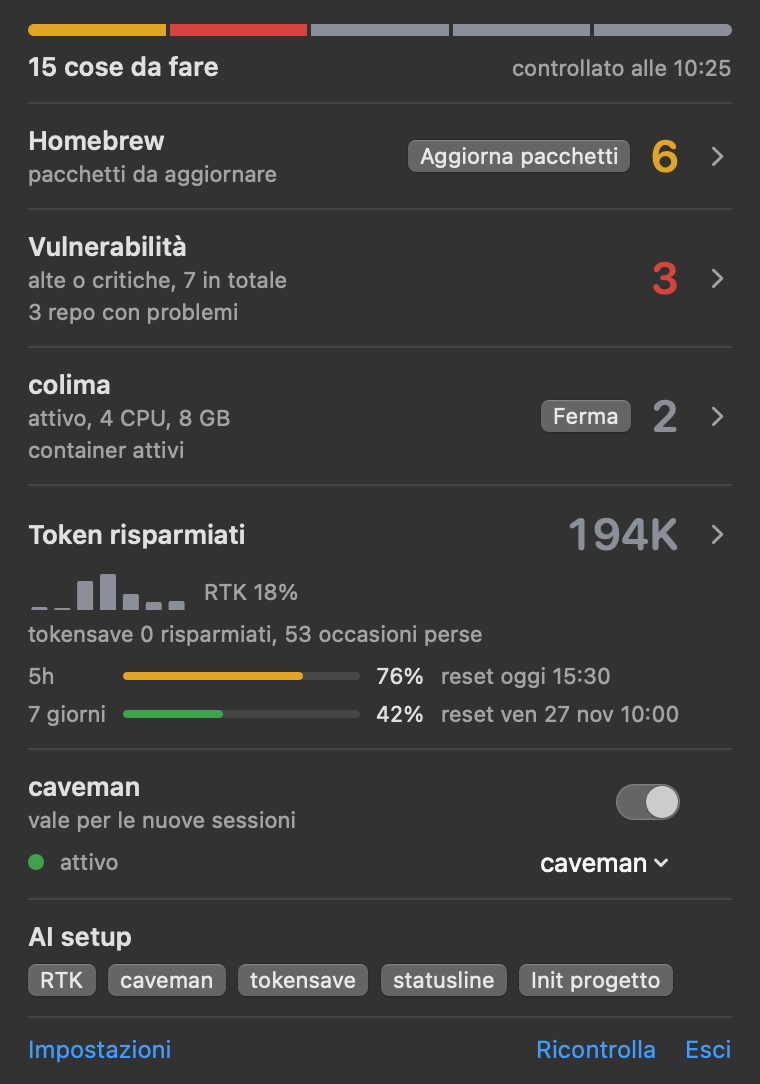
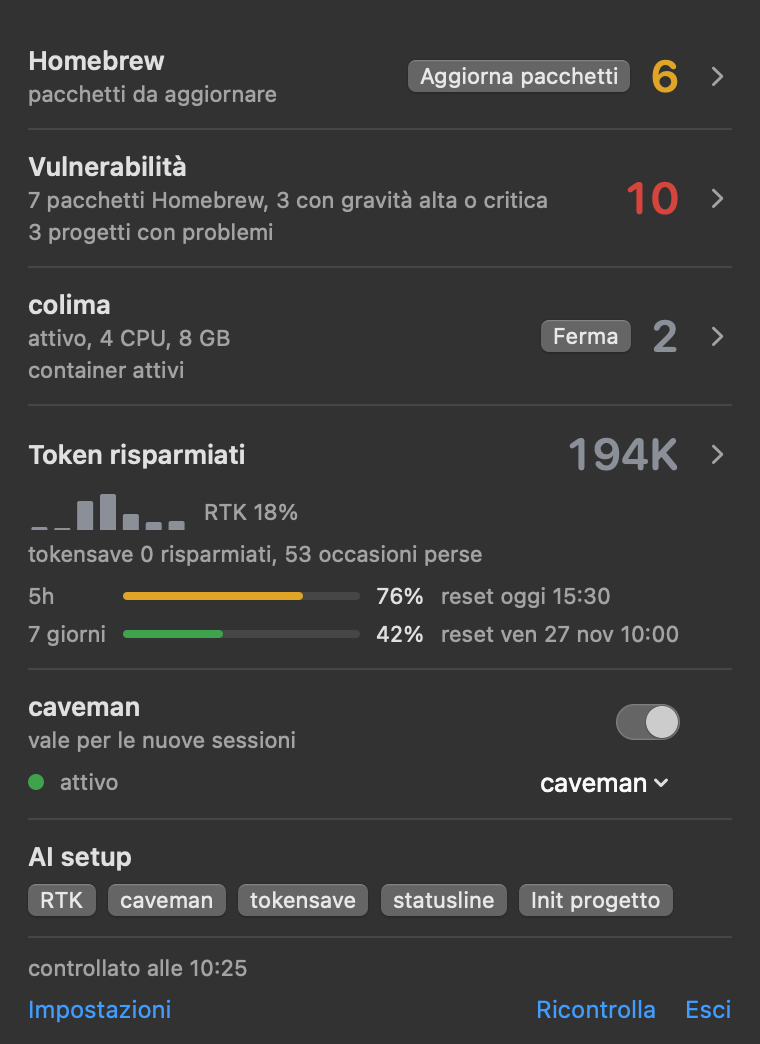
fix(app): numero grande = totale della sezione, tolta la barra e il conteggio in testa al pannello

diff --git a/app/Sources/DevbarCore/Readouts.swift b/app/Sources/DevbarCore/Readouts.swift
@@ -77,62 +77,12 @@ public extension Fmt {
         return p.count == 3 ? "\(p[2])/\(p[1])" : iso
     }
 
-    /// "N cose da fare", "1 cosa da fare", "Tutto a posto".
-    static func todo(_ n: Int) -> String {
-        switch n {
-        case ..<1: "Tutto a posto"
-        case 1: "1 cosa da fare"
-        default: "\(n) cose da fare"
-        }
-    }
-
     /// "controllato alle 09:25"; durante un refresh "controllo in corso…"; mai: nil.
     static func checked(_ last: Date?, isRefreshing: Bool, calendar: Calendar = .current) -> String? {
         if isRefreshing { return "controllo in corso…" }
         guard let last else { return nil }
         let c = calendar.dateComponents([.hour, .minute], from: last)
         return String(format: "controllato alle %02d:%02d", c.hour ?? 0, c.minute ?? 0)
-    }
-}
-
-// MARK: - Barra di salute
-
-public struct StripSegment: Equatable, Sendable, Identifiable {
-    public var area: Area
-    public var tone: Tone
-    public var id: Area { area }
-}
-
-public struct HealthStrip: Equatable, Sendable {
-    public var segments: [StripSegment]
-    /// "2026-11-24" -> "24/11"; altro: invariato.
-    static func day(_ iso: String) -> String {
-        let p = iso.split(separator: "-")
-        return p.count == 3 ? "\(p[2])/\(p[1])" : iso
-    }
-
-    /// "N cose da fare" o "Tutto a posto": stesso numero del badge nella barra dei menu.
-    public var todoText: String
-    public var todoTone: Tone
-
-    /// Segmenti delle aree ancora in `PanelModel` più quelli dei moduli (`Feature`),
-    /// nell'ordine di `Area`.
-    @MainActor
-    public init(model: PanelModel, features: [any Feature], badge: (level: CheckState, count: Int)) {
-        var s: [StripSegment] = []
-        if model.brewState != .hidden { s.append(.init(area: .homebrew, tone: model.brewReadout.tone)) }
-        if model.showsVulns { s.append(.init(area: .vulns, tone: model.vulnReadout.tone)) }
-        if model.showsTokenSection { s.append(.init(area: .tokens, tone: model.tokensTone)) }
-        if model.showsAISetup { s.append(.init(area: .aiSetup, tone: .info)) }
-        s += features.compactMap(\.segment)
-        let order = Area.allCases
-        segments = s.sorted { order.firstIndex(of: $0.area)! < order.firstIndex(of: $1.area)! }
-        todoText = Fmt.todo(badge.count)
-        switch badge.level {
-        case .error: todoTone = .risk
-        case .action: todoTone = badge.count > 0 ? .action : .ok
-        case .ok, .unconfigured: todoTone = .ok
-        }
     }
 }
 
@@ -186,29 +136,34 @@ public extension PanelModel {
 
     var showsVulns: Bool { !vulnRows.isEmpty }
 
-    /// Vulnerabilità: formule colpite da CVE alte o critiche (senza brew: repo con critiche o
-    /// alte). Rosso se ci sono formule o repo gravi.
+    /// Vulnerabilità: il numero grande è il totale da sistemare (pacchetti Homebrew colpiti più
+    /// progetti con problemi in npm/composer). Rosso se almeno uno è grave (alta o critica).
     var vulnReadout: Readout {
         guard showsVulns else { return Readout() }
         let brewShown = vulnRows.contains { $0.id == "brew" }
         let auditShown = vulnRows.contains { $0.id != "brew" }
         let affected = brewShown ? Set(brewVulnItems.map(\.formula)).count : 0
         let severe = brewShown ? severeFormulae.count : 0
+        let projects = auditShown ? reposWithIssues : 0
         let anySevere = severe + severeRepos > 0
+        let total = affected + projects
         let tone: Tone = brewVulnError != nil && !auditShown ? .info
-            : (anySevere ? .risk : (affected + reposWithIssues > 0 ? .action : .ok))
+            : (anySevere ? .risk : (total > 0 ? .action : .ok))
         var sub: String?
         if brewShown {
             if let e = brewVulnError { sub = e }
-            else { sub = affected == 0 ? "nessuna formula colpita" : "alte o critiche, \(affected) in totale" }
+            else if affected == 0 { sub = "nessun pacchetto Homebrew colpito" }
+            else {
+                let pkg = affected == 1 ? "1 pacchetto Homebrew" : "\(affected) pacchetti Homebrew"
+                sub = severe > 0 ? "\(pkg), \(severe) con gravità alta o critica" : pkg
+            }
         }
         var note: String?
         if auditShown {
-            let n = reposWithIssues
-            note = n == 0 ? "Repo senza problemi" : (n == 1 ? "1 repo con problemi" : "\(n) repo con problemi")
+            note = projects == 0 ? "Progetti senza problemi" : (projects == 1 ? "1 progetto con problemi" : "\(projects) progetti con problemi")
         }
-        if !brewShown { return Readout(value: "\(severeRepos)", tone: tone, subtitle: note) }
-        return Readout(value: brewVulnError == nil ? "\(severe)" : nil, tone: tone, subtitle: sub, note: note)
+        let hasValue = !(brewShown && brewVulnError != nil)
+        return Readout(value: hasValue ? "\(total)" : nil, tone: tone, subtitle: brewShown ? sub : note, note: brewShown ? note : nil)
     }
 
     /// Token risparmiati da RTK, compatti ("194K").
@@ -216,8 +171,7 @@ public extension PanelModel {
         Readout(value: rtkSaved.map(Fmt.tokens), tone: .info)
     }
 
-    /// Sezione informativa: sempre ardesia (le soglie di consumo colorano solo gli indicatori),
-    /// così la barra non mostra ambra che "N cose da fare" non conta.
+    /// Sezione informativa: sempre ardesia (le soglie di consumo colorano solo gli indicatori).
     var tokensTone: Tone { .info }
 
     var usageMeters: [UsageMeter] {

diff --git a/app/Tests/DevbarCoreTests/ReadoutsTests.swift b/app/Tests/DevbarCoreTests/ReadoutsTests.swift
@@ -65,12 +65,6 @@ struct FmtExtraTests {
         #expect(Fmt.gb(1_610_612_736) == "1.5 GB")
     }
 
-    @Test func todoText() {
-        #expect(Fmt.todo(0) == "Tutto a posto")
-        #expect(Fmt.todo(1) == "1 cosa da fare")
-        #expect(Fmt.todo(12) == "12 cose da fare")
-    }
-
     @Test func checkedText() {
         var cal = Calendar(identifier: .gregorian); cal.timeZone = TimeZone(identifier: "UTC")!
         let d = ISO8601DateFormatter().date(from: "2026-11-24T09:05:00Z")!
@@ -91,41 +85,12 @@ struct FmtExtraTests {
 }
 
 @MainActor
-struct HealthStripTests {
-    @Test func realFixtureSegments() throws {
-        let m = try Fixture.model(rich: false)
-        let s = HealthStrip(model: m, features: try Fixture.features(rich: false), badge: (.error, 12))
-        #expect(s.segments.map(\.area) == [.homebrew, .vulns, .colima, .tokens, .aiSetup])
-        #expect(s.segments.map(\.tone) == [.action, .risk, .info, .info, .info])
-        #expect(s.todoText == "12 cose da fare")
-        #expect(s.todoTone == .risk)
-    }
-
-    /// Consumo al 76%: l'indicatore è ambra, il segmento Token resta informativo.
+struct TokensToneTests {
+    /// Consumo al 76%: l'indicatore è ambra, la sezione Token resta informativa.
     @Test func richFixtureTokensStayInformative() throws {
         let m = try Fixture.model(rich: true)
-        let s = HealthStrip(model: m, features: try Fixture.features(rich: true), badge: (.error, 15))
-        #expect(s.segments.first { $0.area == .tokens }?.tone == .info)
+        #expect(m.tokensTone == .info)
         #expect(m.usageMeters.first?.tone == .action)
-    }
-
-    @Test func allQuiet() throws {
-        let empty = try AllChecks.decode(Data("{}".utf8))
-        let colima = ColimaFeature(runner: FakeActions(), locks: SectionLocks(), host: Fixture.host)
-        colima.update(from: FeatureInput(all: empty))
-        let s = HealthStrip(model: PanelModel(all: empty), features: [colima], badge: (.ok, 0))
-        #expect(s.segments.isEmpty)
-        #expect(s.todoText == "Tutto a posto")
-        #expect(s.todoTone == .ok)
-    }
-
-    /// Il numero sotto la barra è quello del badge: 6 pacchetti + 6 formule colpite.
-    @MainActor @Test func todoMatchesBadge() async throws {
-        let runner = FakeRunner(["check all": .init(rc: 0, stdout: String(decoding: try Fixture.data("all"), as: UTF8.self))])
-        let store = StatusStore(runner: runner, allTimeout: 5, actionTimeout: 5)
-        await store.refresh(force: false)
-        let m = PanelModel(all: AllChecks(rows: store.results, raw: store.raw))
-        #expect(HealthStrip(model: m, features: [], badge: store.badge).todoText == "12 cose da fare")
     }
 }
 
@@ -153,31 +118,32 @@ struct ReadoutTests {
         #expect(r.subtitle == "timeout")
     }
 
-    /// Formule distinte con CVE alte o critiche, non il numero di CVE (`severe` = 8).
+    /// Il numero grande è il totale dei pacchetti colpiti (formule distinte, non CVE); quelli
+    /// con gravità alta o critica stanno nella riga sotto e decidono il rosso.
     @Test func vulnsCountFormulae() throws {
         let m = try Fixture.model(rich: false)
         #expect(m.severeFormulae == ["openssl@3", "openssl@4"])
         let r = m.vulnReadout
-        #expect(r.value == "2")
+        #expect(r.value == "6")
         #expect(r.tone == .risk)
-        #expect(r.subtitle == "alte o critiche, 6 in totale")
+        #expect(r.subtitle == "6 pacchetti Homebrew, 2 con gravità alta o critica")
         // npm e composer non configurati: nessuna riga repo
         #expect(r.note == nil)
     }
 
     @Test func vulnsWithRepos() throws {
         let r = try Fixture.model(rich: true).vulnReadout
-        #expect(r.value == "3")
-        #expect(r.subtitle == "alte o critiche, 7 in totale")
-        #expect(r.note == "3 repo con problemi")
+        #expect(r.value == "10")
+        #expect(r.subtitle == "7 pacchetti Homebrew, 3 con gravità alta o critica")
+        #expect(r.note == "3 progetti con problemi")
     }
 
     @Test func vulnsOnlyModerateIsAction() throws {
         let json = #"{"npm-audit":{"status":"action","rc":0,"count":1,"summary":"","items":[{"repo":"/r","moderate":2}]}}"#
         let r = PanelModel(all: try AllChecks.decode(Data(json.utf8))).vulnReadout
-        #expect(r.value == "0")
+        #expect(r.value == "1")
         #expect(r.tone == .action)
-        #expect(r.subtitle == "1 repo con problemi")
+        #expect(r.subtitle == "1 progetto con problemi")
     }
 
     @Test func tokens() throws {

diff --git a/app/Sources/Devbar/Panel/PanelView.swift b/app/Sources/Devbar/Panel/PanelView.swift
@@ -9,7 +9,6 @@ struct PanelView: View {
     /// Solo per le istantanee: niente `.task` che rilancia i controlli.
     var loadsOnAppear = true
     @Environment(\.openWindow) private var openWindow
-    @Environment(\.openSettings) private var openSettings
 
     var body: some View {
         let model = PanelModel(all: AllChecks(rows: store.results, raw: store.raw), detect: actions.detect)
@@ -20,17 +19,6 @@ struct PanelView: View {
                     .font(Typo.title).foregroundStyle(.secondary)
                     .padding(.vertical, 10)
             } else {
-                HealthStripView(strip: HealthStrip(model: model, features: actions.features, badge: store.badge),
-                                checked: Fmt.checked(store.lastRefresh, isRefreshing: store.isRefreshing),
-                                onSelect: { area in
-                                    // AI setup non ha Dettagli: gli harness si gestiscono nelle impostazioni.
-                                    if area == .aiSetup {
-                                        NSApp.activate(ignoringOtherApps: true)
-                                        openSettings()
-                                    } else {
-                                        open(area)
-                                    }
-                                })
                 rows(model, open: open)
             }
             Divider()
@@ -48,29 +36,33 @@ struct PanelView: View {
         .modifier(ConfirmationHost(actions: actions, origin: .panel))
     }
 
+    /// Righe nell'ordine del pannello; la linea di separazione va tra una riga e la successiva,
+    /// mai sopra la prima.
     @ViewBuilder private func rows(_ model: PanelModel, open: DetailsOpener) -> some View {
-        if model.brewState == .shown {
-            Divider()
+        let shown = [model.brewState == .shown, model.showsVulns, actions.colima.readout != nil,
+                     model.showsTokenSection, model.caveman != nil, model.showsAISetup]
+        let line = { (i: Int) in shown[..<i].contains(true) }
+        if shown[0] {
             BrewRow(model: model, actions: actions, open: open)
         }
-        if model.showsVulns {
-            Divider()
+        if shown[1] {
+            if line(1) { Divider() }
             VulnsRow(model: model, open: open)
         }
-        if actions.colima.readout != nil {
-            Divider()
+        if shown[2] {
+            if line(2) { Divider() }
             ColimaRow(feature: actions.colima, open: open)
         }
-        if model.showsTokenSection {
-            Divider()
+        if shown[3] {
+            if line(3) { Divider() }
             TokensRow(model: model, actions: actions, open: open)
         }
-        if let cv = model.caveman {
-            Divider()
+        if shown[4], let cv = model.caveman {
+            if line(4) { Divider() }
             CavemanRow(panel: cv, control: actions.caveman)
         }
-        if model.showsAISetup {
-            Divider()
+        if shown[5] {
+            if line(5) { Divider() }
             AISetupRow(model: model, actions: actions)
         }
     }

diff --git a/app/Sources/Devbar/Panel/Components.swift b/app/Sources/Devbar/Panel/Components.swift
@@ -98,40 +98,6 @@ extension ReadoutRow where Accessory == EmptyView {
     }
 }
 
-// MARK: - Barra di salute
-
-struct HealthStripView: View {
-    let strip: HealthStrip
-    let checked: String?
-    let onSelect: (Area) -> Void
-
-    var body: some View {
-        VStack(alignment: .leading, spacing: 7) {
-            HStack(spacing: 2) {
-                ForEach(Array(strip.segments.enumerated()), id: \.element.id) { i, seg in
-                    let first = i == 0, last = i == strip.segments.count - 1
-                    Button { onSelect(seg.area) } label: {
-                        UnevenRoundedRectangle(topLeadingRadius: first ? 3 : 0, bottomLeadingRadius: first ? 3 : 0,
-                                               bottomTrailingRadius: last ? 3 : 0, topTrailingRadius: last ? 3 : 0)
-                            .fill(seg.tone.color)
-                            .frame(maxWidth: .infinity)
-                            .frame(height: 6)
-                            .contentShape(Rectangle().inset(by: -4))
-                    }
-                    .buttonStyle(.plain)
-                    .help(seg.area.title)
-                }
-            }
-            HStack(alignment: .firstTextBaseline) {
-                Text(strip.todoText).font(Typo.title)
-                Spacer()
-                if let checked { Text(checked).font(Typo.note).foregroundStyle(.secondary) }
-            }
-        }
-        .padding(.bottom, 10)
-    }
-}
-
 // MARK: - Indicatore di consumo
 
 /// Indicatori del consumo Claude in griglia: barre della stessa larghezza, a capsula sottile.

diff --git a/app/Tests/DevbarCoreTests/ColimaFeatureTests.swift b/app/Tests/DevbarCoreTests/ColimaFeatureTests.swift
@@ -53,9 +53,8 @@ struct ColimaFeatureTests {
         #expect(f.panel.toggleTitle == "Ferma")
         #expect(f.panel.summary == "attivo, 4 CPU, 8 GB")
         #expect(f.tone(of: .colima) == .info)
-        // Riga e segmento hanno lo stesso tono.
+        // Riga e barra laterale dei Dettagli hanno lo stesso tono.
         #expect(f.readout?.tone == f.tone(of: .colima))
-        #expect(f.segment == StripSegment(area: .colima, tone: .info))
     }
 
     @Test func stoppedShowsAvvia() throws {
@@ -183,16 +182,5 @@ struct ColimaFeatureTests {
         let before = f.panel
         f.update(from: FeatureInput(all: try Fixture.all(), detect: try Fixture.detect()))
         #expect(f.panel == before)
-    }
-
-    // MARK: Barra e Dettagli
-
-    @Test func stripTakesColimaFromFeature() throws {
-        let m = try Fixture.model(rich: false)
-        let s = HealthStrip(model: m, features: [try feature()], badge: (.error, 12))
-        #expect(s.segments.map(\.area) == [.homebrew, .vulns, .colima, .tokens, .aiSetup])
-        let hidden = try feature(try AllChecks.decode(Data("{}".utf8)))
-        #expect(hidden.segment == nil)
-        #expect(!HealthStrip(model: m, features: [hidden], badge: (.ok, 0)).segments.contains { $0.area == .colima })
     }
 }

diff --git a/app/Sources/Devbar/Panel/FooterBar.swift b/app/Sources/Devbar/Panel/FooterBar.swift
@@ -10,7 +10,8 @@ struct FooterBar: View {
     var body: some View {
         VStack(alignment: .leading, spacing: 6) {
             if let s = PanelModel.footerStatus(engineBusy: store.engineBusy, refreshError: store.refreshError,
-                                               isRefreshing: store.isRefreshing) ?? actions.lastError {
+                                               isRefreshing: store.isRefreshing) ?? actions.lastError
+                ?? Fmt.checked(store.lastRefresh, isRefreshing: store.isRefreshing) {
                 Text(s).font(Typo.note).foregroundStyle(.secondary).lineLimit(2)
             }
             HStack(spacing: 14) {

diff --git a/app/Sources/DevbarCore/Features/Feature.swift b/app/Sources/DevbarCore/Features/Feature.swift
@@ -27,14 +27,6 @@ public struct FeatureInput: Sendable {
     nonisolated static var actions: FeatureActionSpec { get }
 }
 
-public extension Feature {
-    /// Segmento della barra di salute, se l'area è visibile: stesso tono della riga.
-    var segment: StripSegment? {
-        guard let r = readout, let a = areas.first else { return nil }
-        return StripSegment(area: a, tone: r.tone)
-    }
-}
-
 /// Azioni `devbar run <verbo>` di un modulo: quali verbi gli appartengono (per prefisso),
 /// la sezione che occupano mentre girano e quali restano in background a lungo.
 public struct FeatureActionSpec: Sendable, Equatable {
